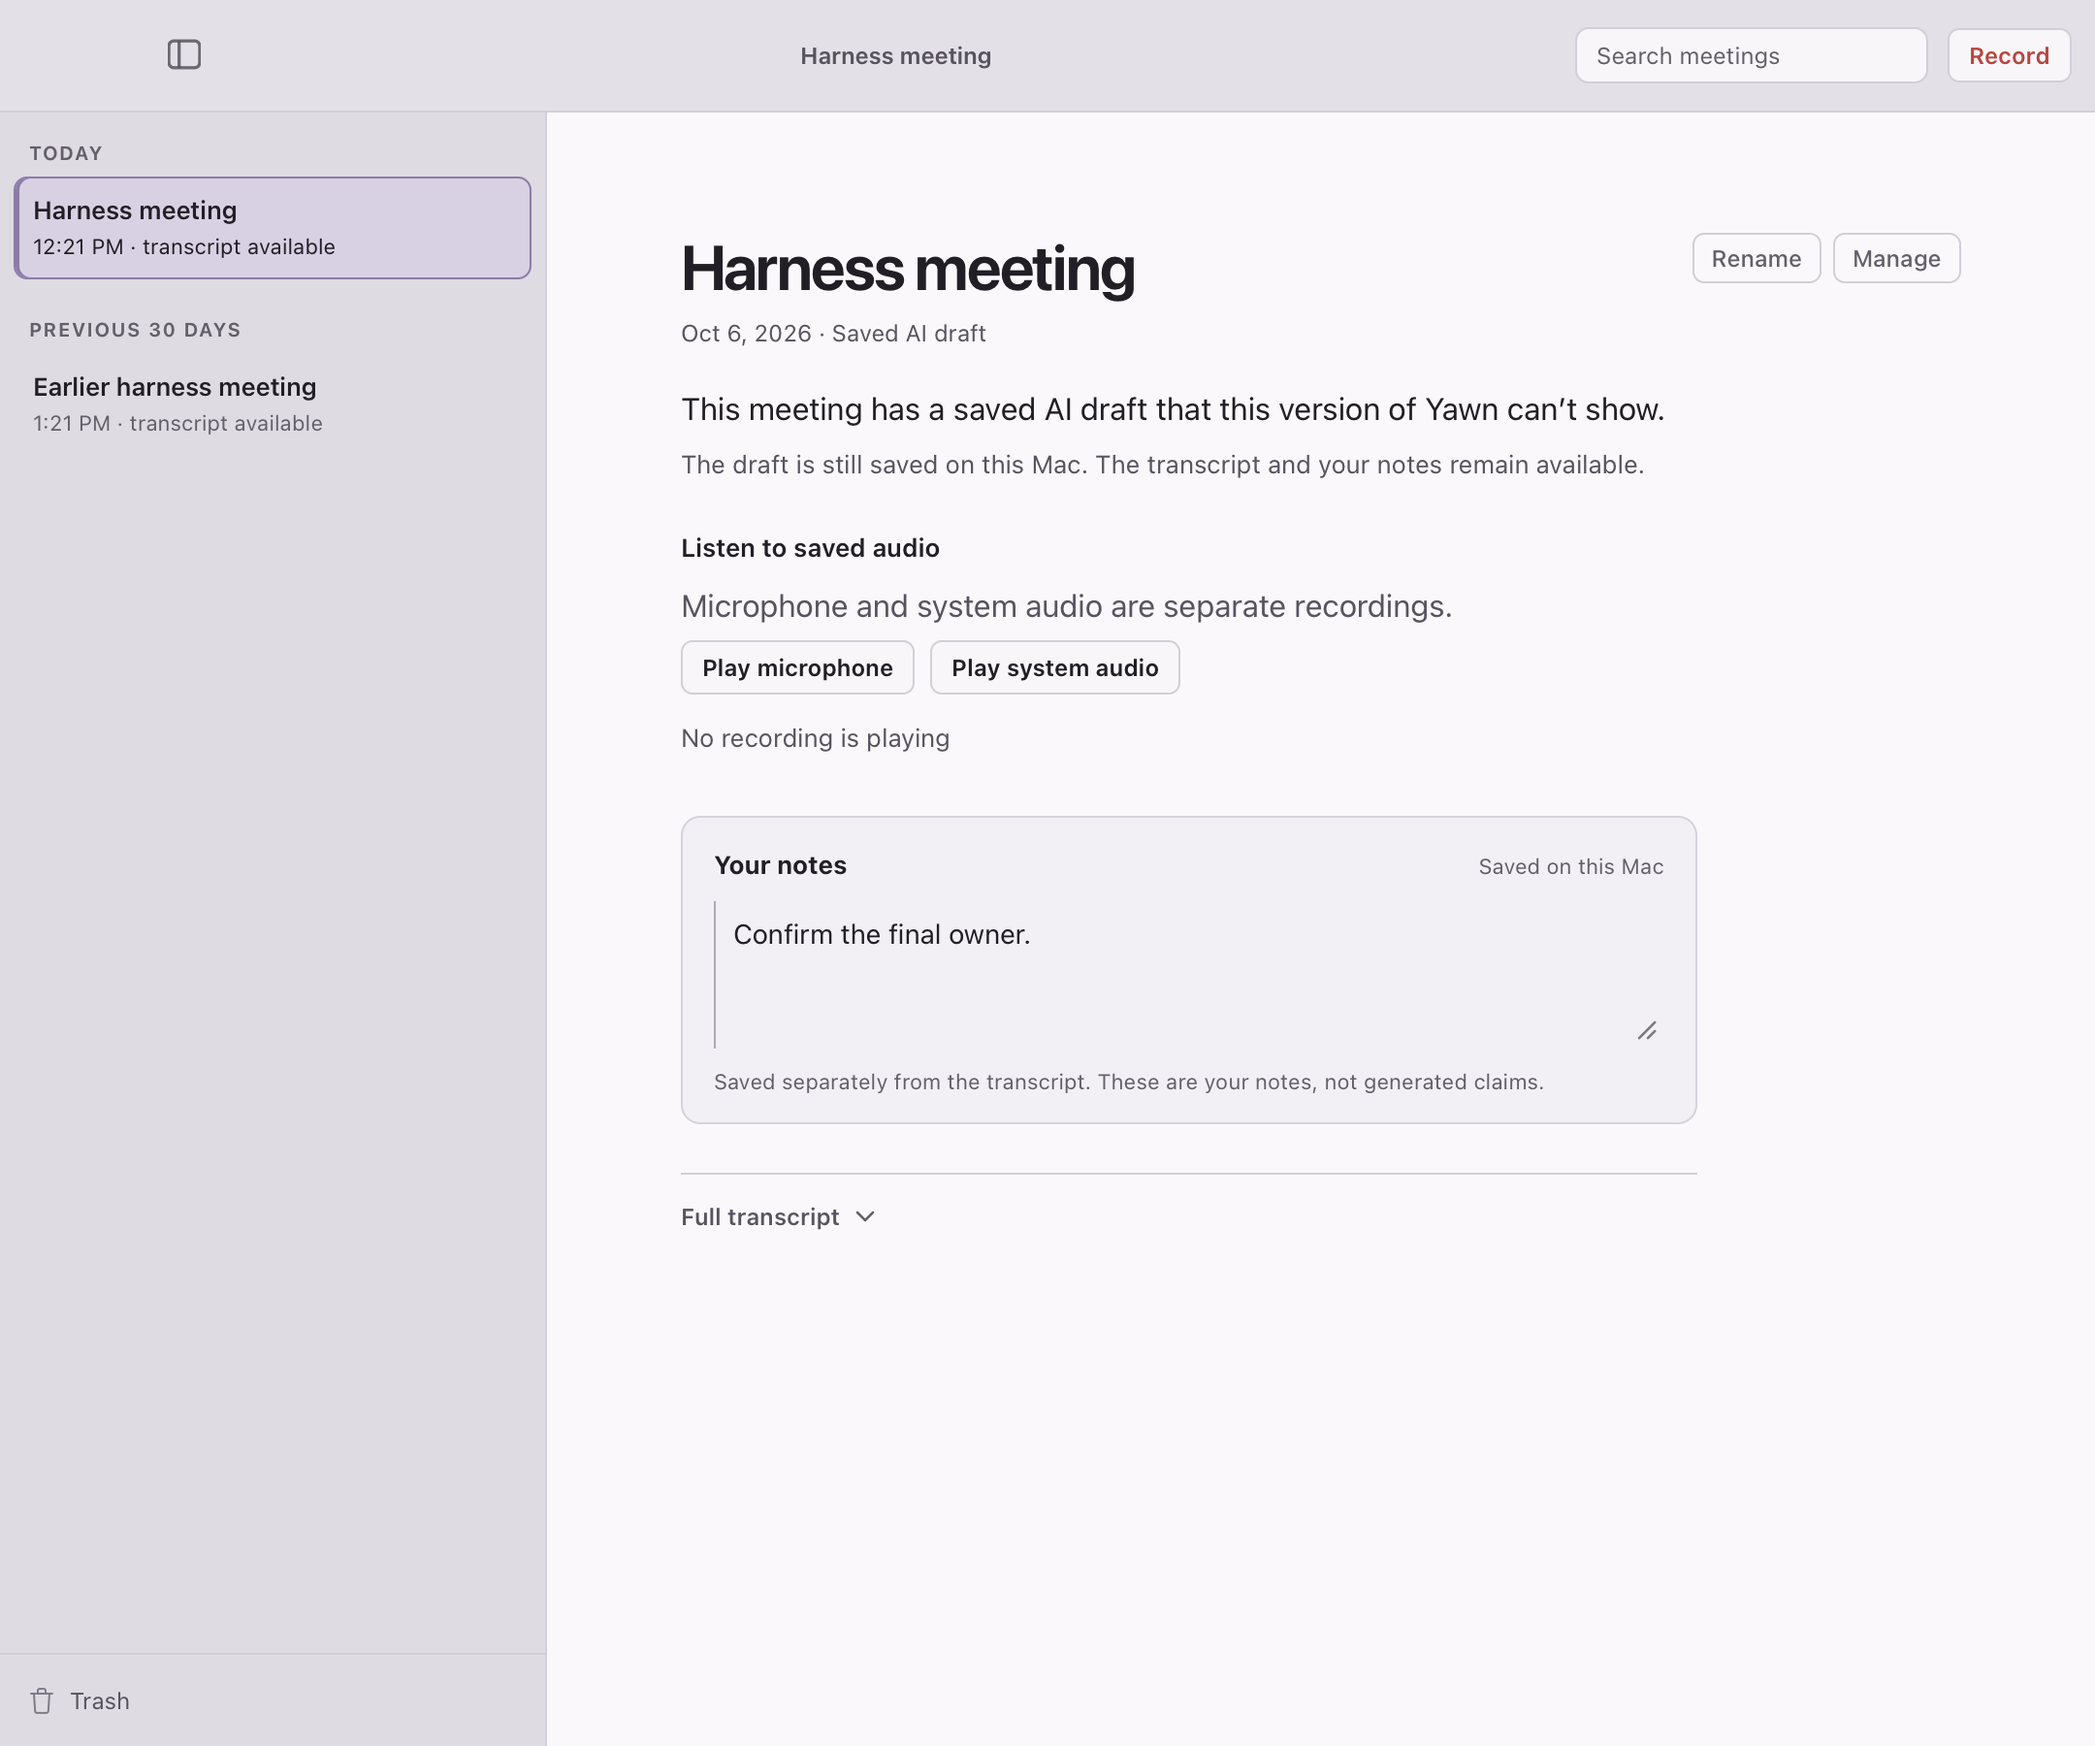
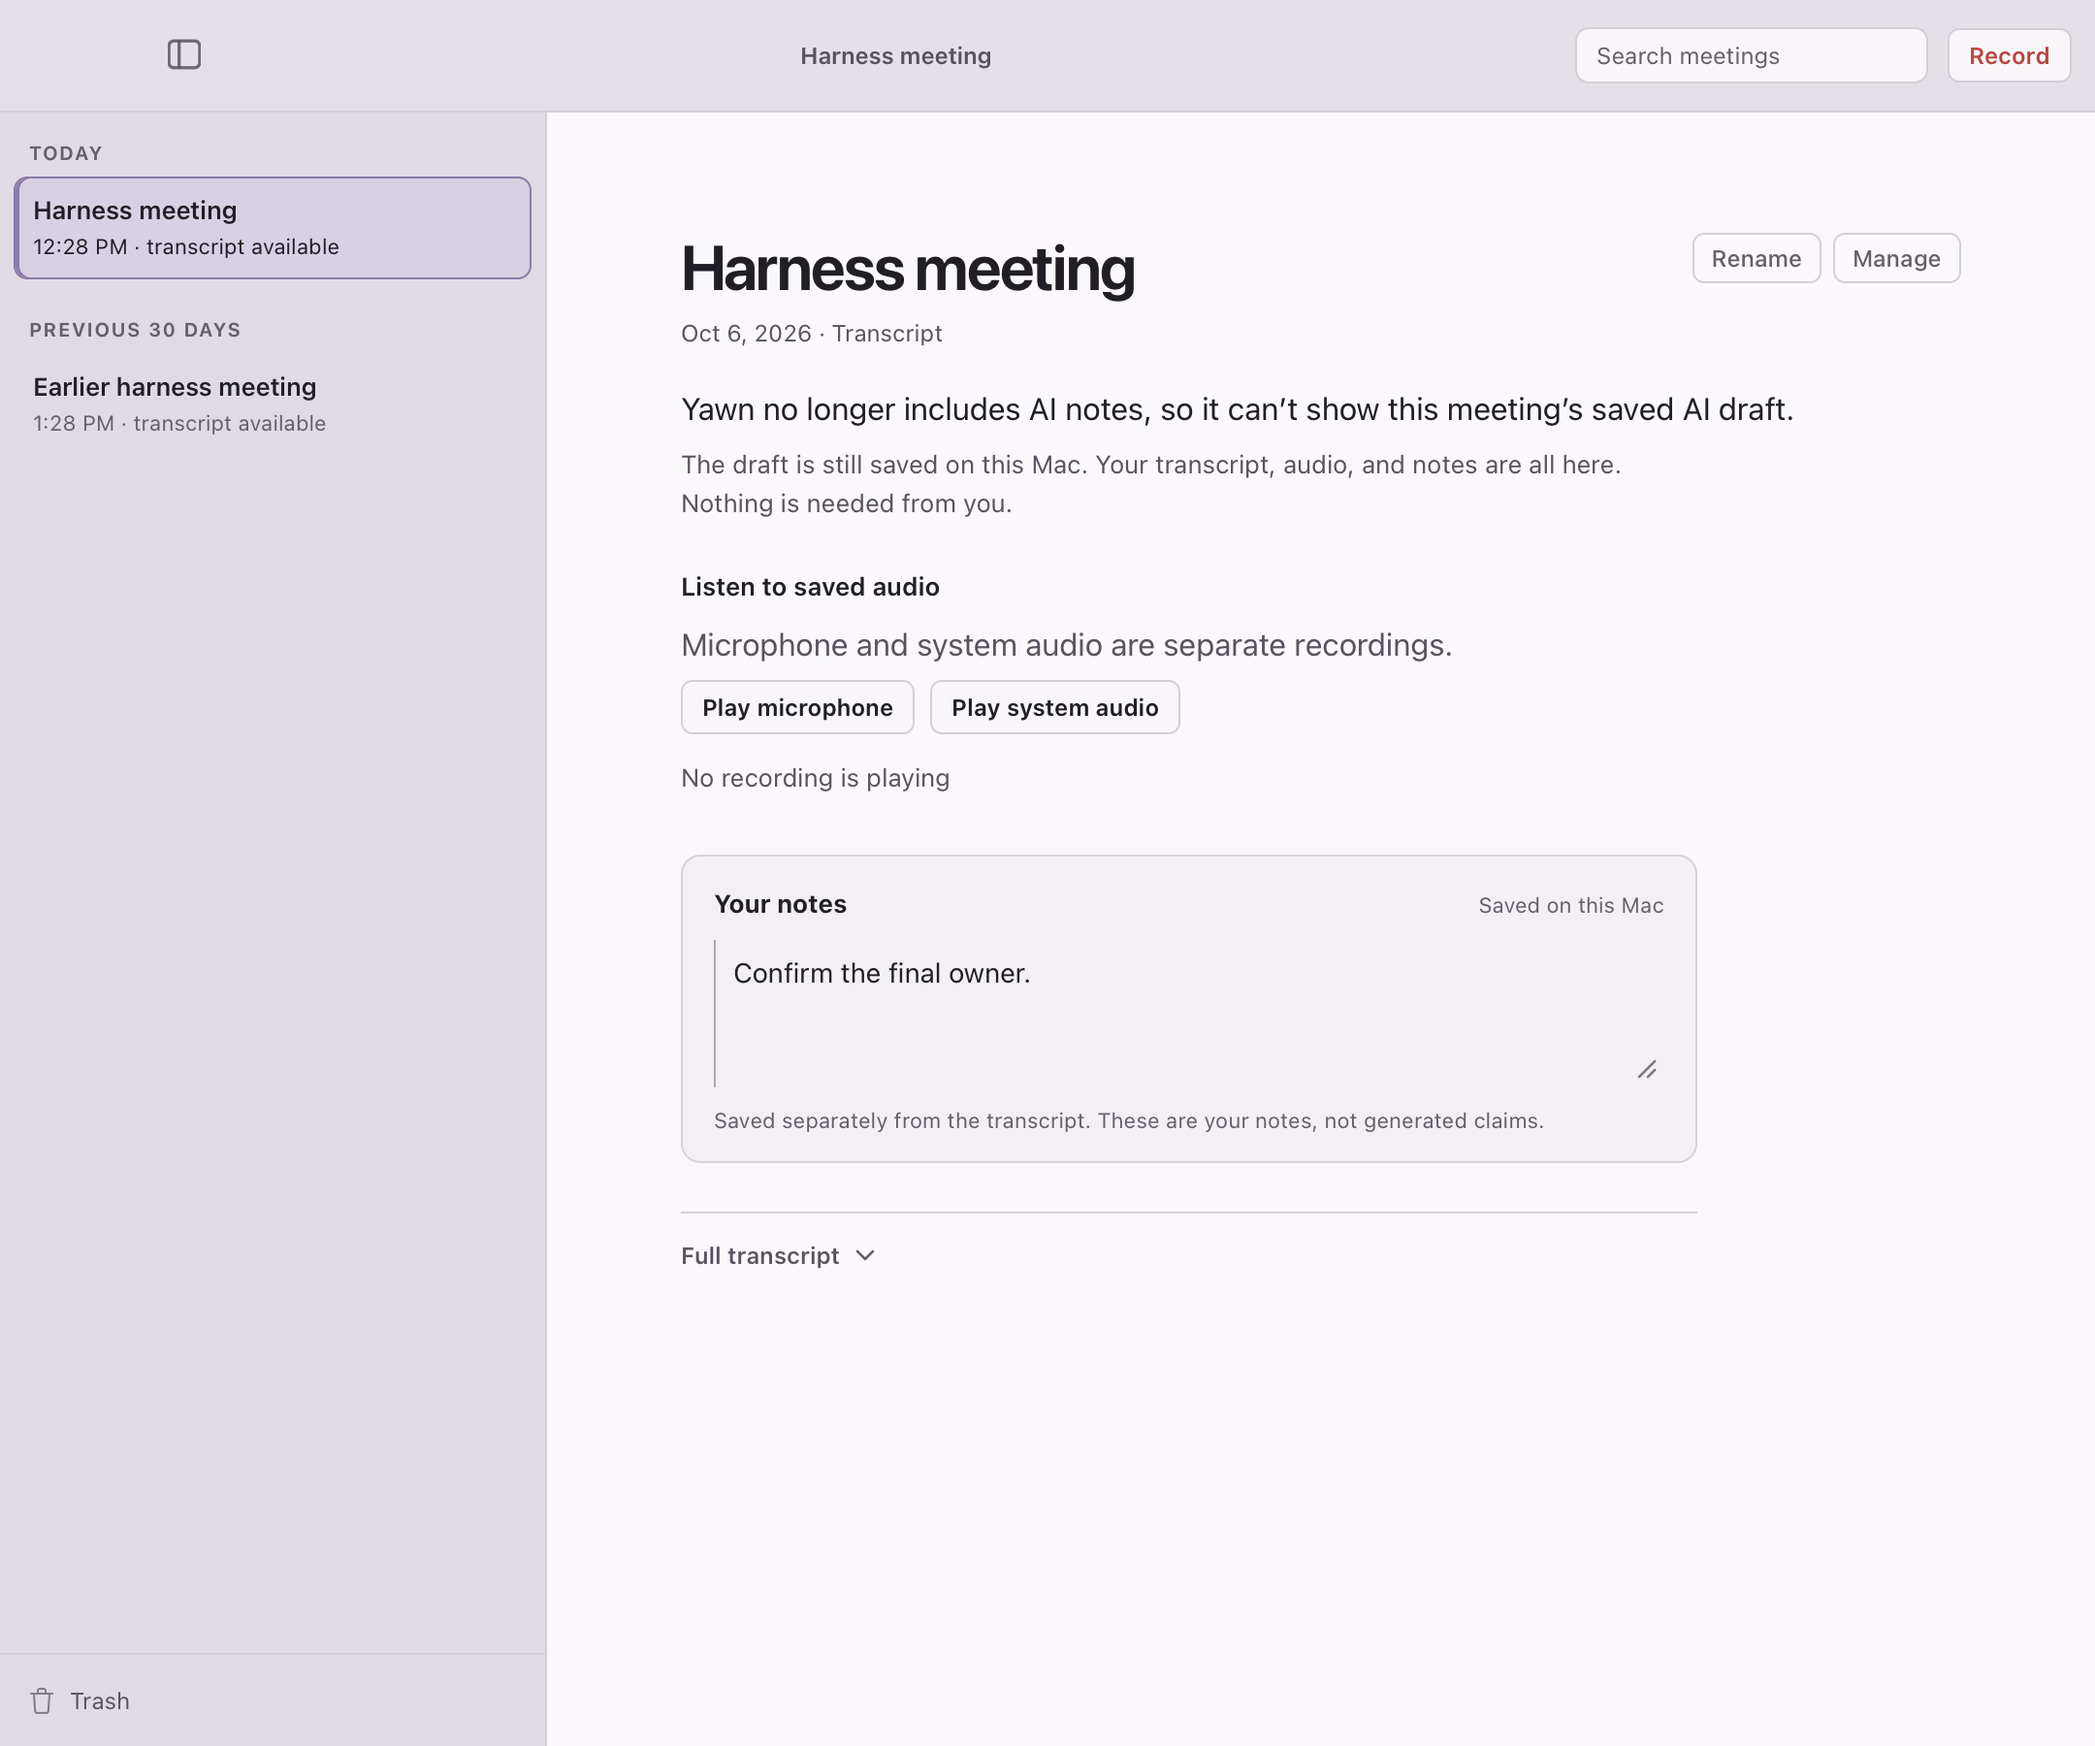
fix(yawn): state why a withheld saved draft can't be shown
Fresh cold reviewers found that "this version of Yawn can't show"
implies an update fixes it, and no update does. The note area now says
"Yawn no longer includes AI notes, so it can't show this meeting's saved
AI draft." It adds that the draft is still saved on this Mac and nothing
is needed. The caption is "Transcript", as for transcript-only. The
backend message and the export omission line match.

The review record now covers four passes honestly. Pass 2 was not
fully cold. The fresh passes did not converge, so the lead sentence is
left as an open operator wording decision in DIRECTION.md.

diff --git a/apps/desktop/src-tauri/src/library_reader.rs b/apps/desktop/src-tauri/src/library_reader.rs
@@ -32,7 +32,7 @@ use uuid::Uuid;
 
 const STALE_MESSAGE: &str = "That view is no longer current. Reopen it and try again.";
 const UNAVAILABLE_MESSAGE: &str = "The local library is unavailable. Reopen the app and try again.";
-const SAVED_NOTE_UNREADABLE_MESSAGE: &str = "This meeting has a saved AI draft that this version of Yawn can't show. The draft is still saved on this Mac. The transcript and your notes remain available.";
+const SAVED_NOTE_UNREADABLE_MESSAGE: &str = "Yawn no longer includes AI notes, so it can't show this meeting's saved AI draft. The draft is still saved on this Mac. Your transcript, audio, and notes are all here. Nothing is needed from you.";
 /// Roadmap intake I5. Said the same way everywhere a locked meeting refuses,
 /// and deliberately not a security claim: the meeting is behind a local
 /// barrier that a confirmation lifts, and the sentence says exactly that.

diff --git a/apps/desktop/src-tauri/src/meeting_export.rs b/apps/desktop/src-tauri/src/meeting_export.rs
@@ -89,7 +89,7 @@ pub(crate) fn export_meeting(
         files.push(("note.md".to_string(), note_markdown(claims).into_bytes()));
     } else if saved_note_unreadable && meeting.artifacts.current_note.is_some() {
         withheld.push(
-            "note.md was not included: this meeting has a saved AI draft that this version of Yawn can't read. The draft is still saved on this Mac."
+            "note.md was not included: Yawn no longer includes AI notes, so it can't read this meeting's saved AI draft. The draft is still saved on this Mac."
                 .to_string(),
         );
     } else if meeting.artifacts.current_note.is_some() {

diff --git a/docs/evidence/screen-reviews/saved-draft-unreadable-2026-10-06-cold.md b/docs/evidence/screen-reviews/saved-draft-unreadable-2026-10-06-cold.md
@@ -1,20 +1,24 @@
 # Withheld saved AI draft — cold review, 2026-10-06
 
-**Kind:** cold screen review. The reviewer saw only the rendered frames and the job questions. They had no source code and no design rationale. The frames come from the synthetic WKWebView harness (`ui-harness/run.sh note-retirement`, mode `saved-draft-unreadable`), which drives the production frontend against a stubbed backend. They are not captures of the installed app.
+**Kind:** cold screen review, four passes. Passes 1, 3 and 4 each used a fresh reviewer who saw only the rendered frames and the job questions, with no source code and no design rationale. Pass 2 was not fully cold: the same reviewer as pass 1 was also told why the wording was chosen. Pass 2's accept is therefore superseded by the fresh passes after it. The frames come from the synthetic WKWebView harness (`ui-harness/run.sh note-retirement`, mode `saved-draft-unreadable`), which drives the production frontend against a stubbed backend. They are not captures of the installed app.
 
 **Question:** When a meeting has a saved AI draft that this install cannot read, can a person tell what the meeting has and what it doesn't show? Does anything suggest the draft was lost?
 
-**First frame: revise.** The line "This meeting has a saved AI draft that this version of Yawn can't show.", followed only by "The transcript and your notes remain available.", read as a dead end. A reader could not tell whether the draft was safe.
+| Pass | Lead line / detail / caption | Verdict | Main finding |
+|---|---|---|---|
+| 1 | "…saved AI draft that this version of Yawn can't show." / "The transcript and your notes remain available." / "Saved AI draft" | revise | Dead end; no word on whether the draft is safe |
+| 2 (not cold) | detail adds "The draft is still saved on this Mac." | accept | — |
+| 3 | same as 2 | revise | "this version" implies an update fixes it, and none does; "Saved" means three different things on one screen |
+| 4a | "…that Yawn can no longer show." / caption "AI draft not shown" | revise | No cause or next step; the caption repeats the headline |
+| 4b (shipped) | "Yawn no longer includes AI notes, so it can't show this meeting's saved AI draft." / "The draft is still saved on this Mac. Your transcript, audio, and notes are all here. Nothing is needed from you." / caption "Transcript" | revise | Leads with what can't be shown rather than what the meeting has; "Transcript" undersells a meeting with audio and notes |
 
-**Revised frame: accept.** The detail now reads "The draft is still saved on this Mac. The transcript and your notes remain available." The reviewer found that this answers "is it lost?" without promising a fix that no current version offers, and that it adds nothing misleading. The remaining open question, "how do I get the draft back?", is answered honestly by "can't show".
+**Status: not accepted.** The passes stopped converging. Each fix for one reviewer's concern drew the opposite concern from the next. Every pass agreed that nothing on the screen suggests deletion, and that the transcript, audio and notes are reachable. Choosing the lead sentence is an operator wording decision. It is recorded as open in DIRECTION.md content reads. The strongest remaining candidate, from pass 4b, is to lead with what the meeting has and demote the AI-draft sentence to the detail line.
 
-Not changed, with reasons:
-- **Collapsed "Full transcript" row.** It reads as sparse next to the withheld-draft line. Every meeting state shares this row, so this change did not introduce it. The reviewer accepted it as is.
-- **"No recording is playing" and the audio caption's size, larger than its heading.** These are pre-existing playback-block styling. The reviewer called them minor and not blocking.
+Not changed, with reasons: the collapsed "Full transcript" row, the "Manage" label, the idle "No recording is playing" line, and the audio caption's size. All four were raised across passes, but every meeting state shares them, so this change did not introduce them.
 
-What was removed, combined, demoted or hidden: nothing was removed. The withheld draft replaces what would otherwise be a whole-library failure ("The local library is unavailable"), which hid every meeting.
+What was removed, combined, demoted or hidden: nothing was removed. This state replaces a whole-library failure ("The local library is unavailable"), which hid every meeting.
 
-![Withheld saved draft, dark](../saved-draft-unreadable-2026-10-06/saved-draft-unreadable-dark.png)
-![Withheld saved draft, light](../saved-draft-unreadable-2026-10-06/saved-draft-unreadable-light.png)
+![Withheld saved draft, dark (pass 4b)](../saved-draft-unreadable-2026-10-06/saved-draft-unreadable-dark.png)
+![Withheld saved draft, light (pass 4b)](../saved-draft-unreadable-2026-10-06/saved-draft-unreadable-light.png)
 
-Checks: `npm run test:ui` (156 pass). `./run.sh note-retirement` passed all five fixtures in dark and light. The new fixture passes only when the withheld-draft note area and the audio controls are present; the other fixtures report both absent. This review does not establish behavior in an installed build.
+Checks: `npm run test:ui` (156 pass). `./run.sh note-retirement` passed all five fixtures in dark and light. The new fixture passes only when the withheld-draft note area and the audio controls are present. This review does not establish behavior in an installed build.

diff --git a/DIRECTION.md b/DIRECTION.md
@@ -94,7 +94,7 @@ did not produce (brief amendment, 2026-09-01).
 
 | Date | Surface | Strings | Verdict |
 |---|---|---|---|
-| 2026-10-06 | Withheld saved AI draft (`saved-note-unreadable`): a ready meeting whose saved draft this install cannot read because no note projector is admitted. Note-area line plus document caption | Title: "This meeting has a saved AI draft that this version of Yawn can’t show." Detail: "The draft is still saved on this Mac. The transcript and your notes remain available." Caption reuses "Saved AI draft". Backend message: "This meeting has a saved AI draft that this version of Yawn can't show. The draft is still saved on this Mac. The transcript and your notes remain available." Export omission line: "note.md was not included: this meeting has a saved AI draft that this version of Yawn can't read. The draft is still saved on this Mac." | Proposed by an agent session; not yet read by the operator. Tests assert the state, that it is not "summary-failed", that it does not block the pane, and that audio stays playable, not this wording |
+| 2026-10-06 | Withheld saved AI draft (`saved-note-unreadable`): a ready meeting whose saved draft this install cannot read because no note projector is admitted. Note-area line plus document caption | Title: "Yawn no longer includes AI notes, so it can’t show this meeting’s saved AI draft." Detail: "The draft is still saved on this Mac. Your transcript, audio, and notes are all here. Nothing is needed from you." Caption: "Transcript" (as transcript-only). Backend message: "Yawn no longer includes AI notes, so it can't show this meeting's saved AI draft. The draft is still saved on this Mac. Your transcript, audio, and notes are all here. Nothing is needed from you." Export omission line: "note.md was not included: Yawn no longer includes AI notes, so it can't read this meeting's saved AI draft. The draft is still saved on this Mac." | Proposed by an agent session; cold review did not converge after four passes (see `docs/evidence/screen-reviews/saved-draft-unreadable-2026-10-06-cold.md`). Open operator wording decision: lead with what can't be shown, or with what the meeting has. Tests assert the state, that it is not "summary-failed", that it does not block the pane, and that audio stays playable, not this wording |
 | 2026-09-30 | Generation retirement, transcript-only and historical generation states | "Automatic note generation is no longer available. Your notes and transcript remain available." | Parent-selected implementation copy following the operator's approved deprecation. Revised cold screen review accepted; this is not operator wording acceptance. |
 | 2026-09-01 | W10 first-run sheet, teaching empty state, guided hint | All W10 user-facing strings, verbatim in the packet report | Approved as-is by the operator; x-close retained |
 | 2026-09-02 | Meeting document state caption (R24) and the two note-state sentences (R23, R24b) | Caption: "Meeting note" / "Transcript" / "Note not created" / "Interrupted" / "Locked" / "Details only". Released audio, no note: "The audio was already deleted. The transcript remains available, but this meeting cannot be retranscribed." First failed generation: "Yawn could not create a note. Your transcript is unchanged and you can try again." | Proposed; not yet read by the operator. Tests assert the mapping and the no-note invariant, not this wording |
